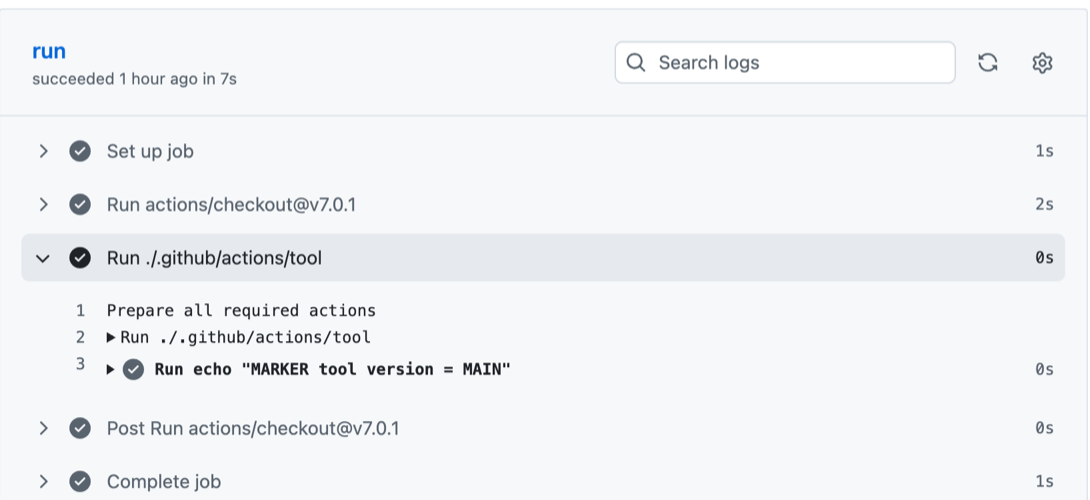
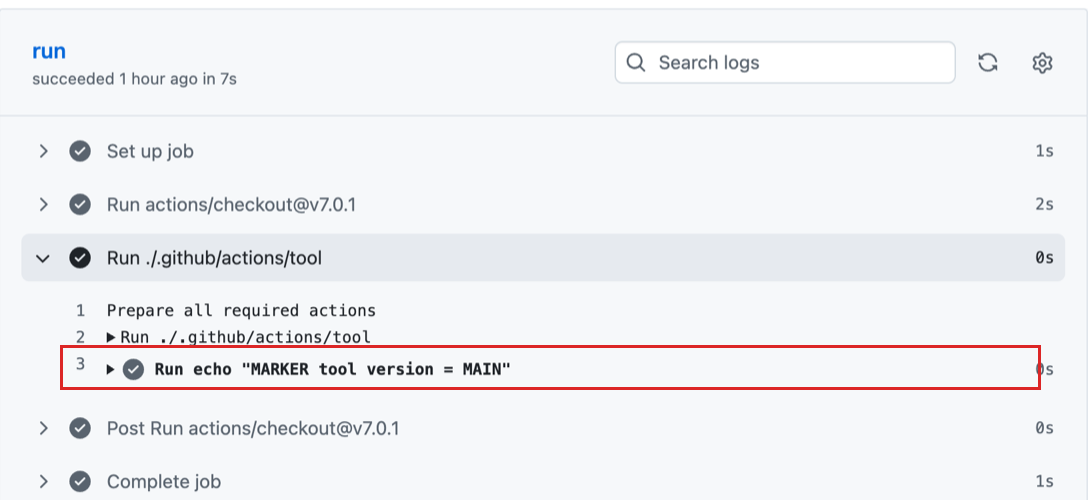
Label the CI runs before and after, box the marker line

Changed region(s): [[0.0312, 0.75, 0.967, 0.78], [0.0312, 0.69, 0.967, 0.72]]

diff --git a/_posts/2026-11-15-changing-ci-without-the-workflows-permission.md b/_posts/2026-11-15-changing-ci-without-the-workflows-permission.md
@@ -42,11 +42,15 @@ jobs:
       - uses: ./.github/actions/tool
 ```
 
-The App changed only that action on a `test/agent` branch. Two CI runs on that branch before and after:
+The App changed only that action on a `test/agent` branch. Two CI runs on that branch, before and after that commit.
 
-![CI before the change: MARKER tool version = MAIN](/assets/changing-ci-without-the-workflows-permission/3a-ci-main.png)
+Before:
 
-![CI after the App's change: MARKER tool version = BRANCH (agent)](/assets/changing-ci-without-the-workflows-permission/3b-ci-agent.png)
+![CI run on the branch as created from main, printing MARKER tool version = MAIN](/assets/changing-ci-without-the-workflows-permission/3a-ci-main.png)
+
+After:
+
+![CI run after the App's commit, printing MARKER tool version = BRANCH (agent)](/assets/changing-ci-without-the-workflows-permission/3b-ci-agent.png)
 
 Whatever that job can reach, the App's code can reach: its token, anything the workflow passes in, any cloud identity the job assumes. I didn't test those here.
 
